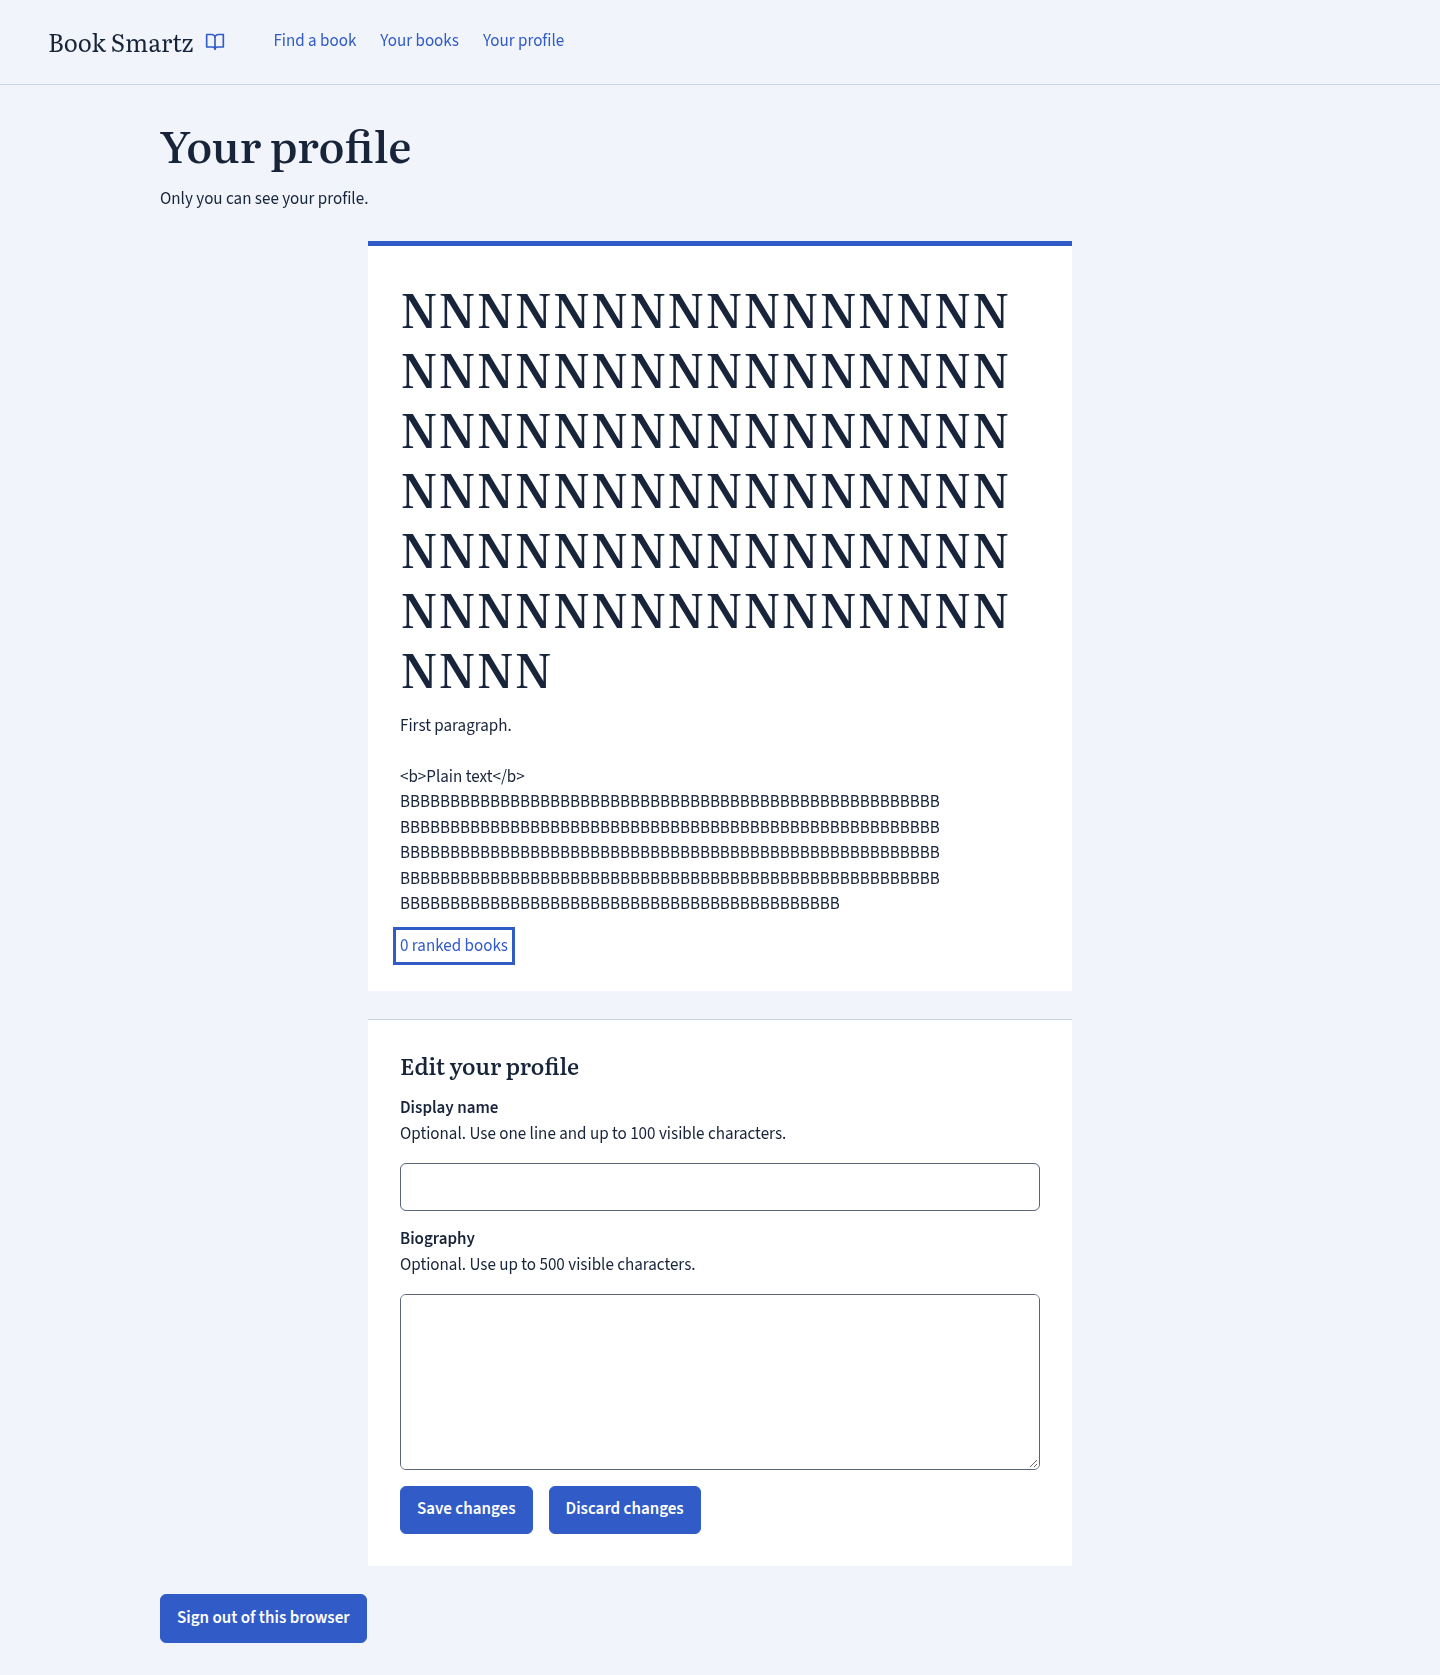
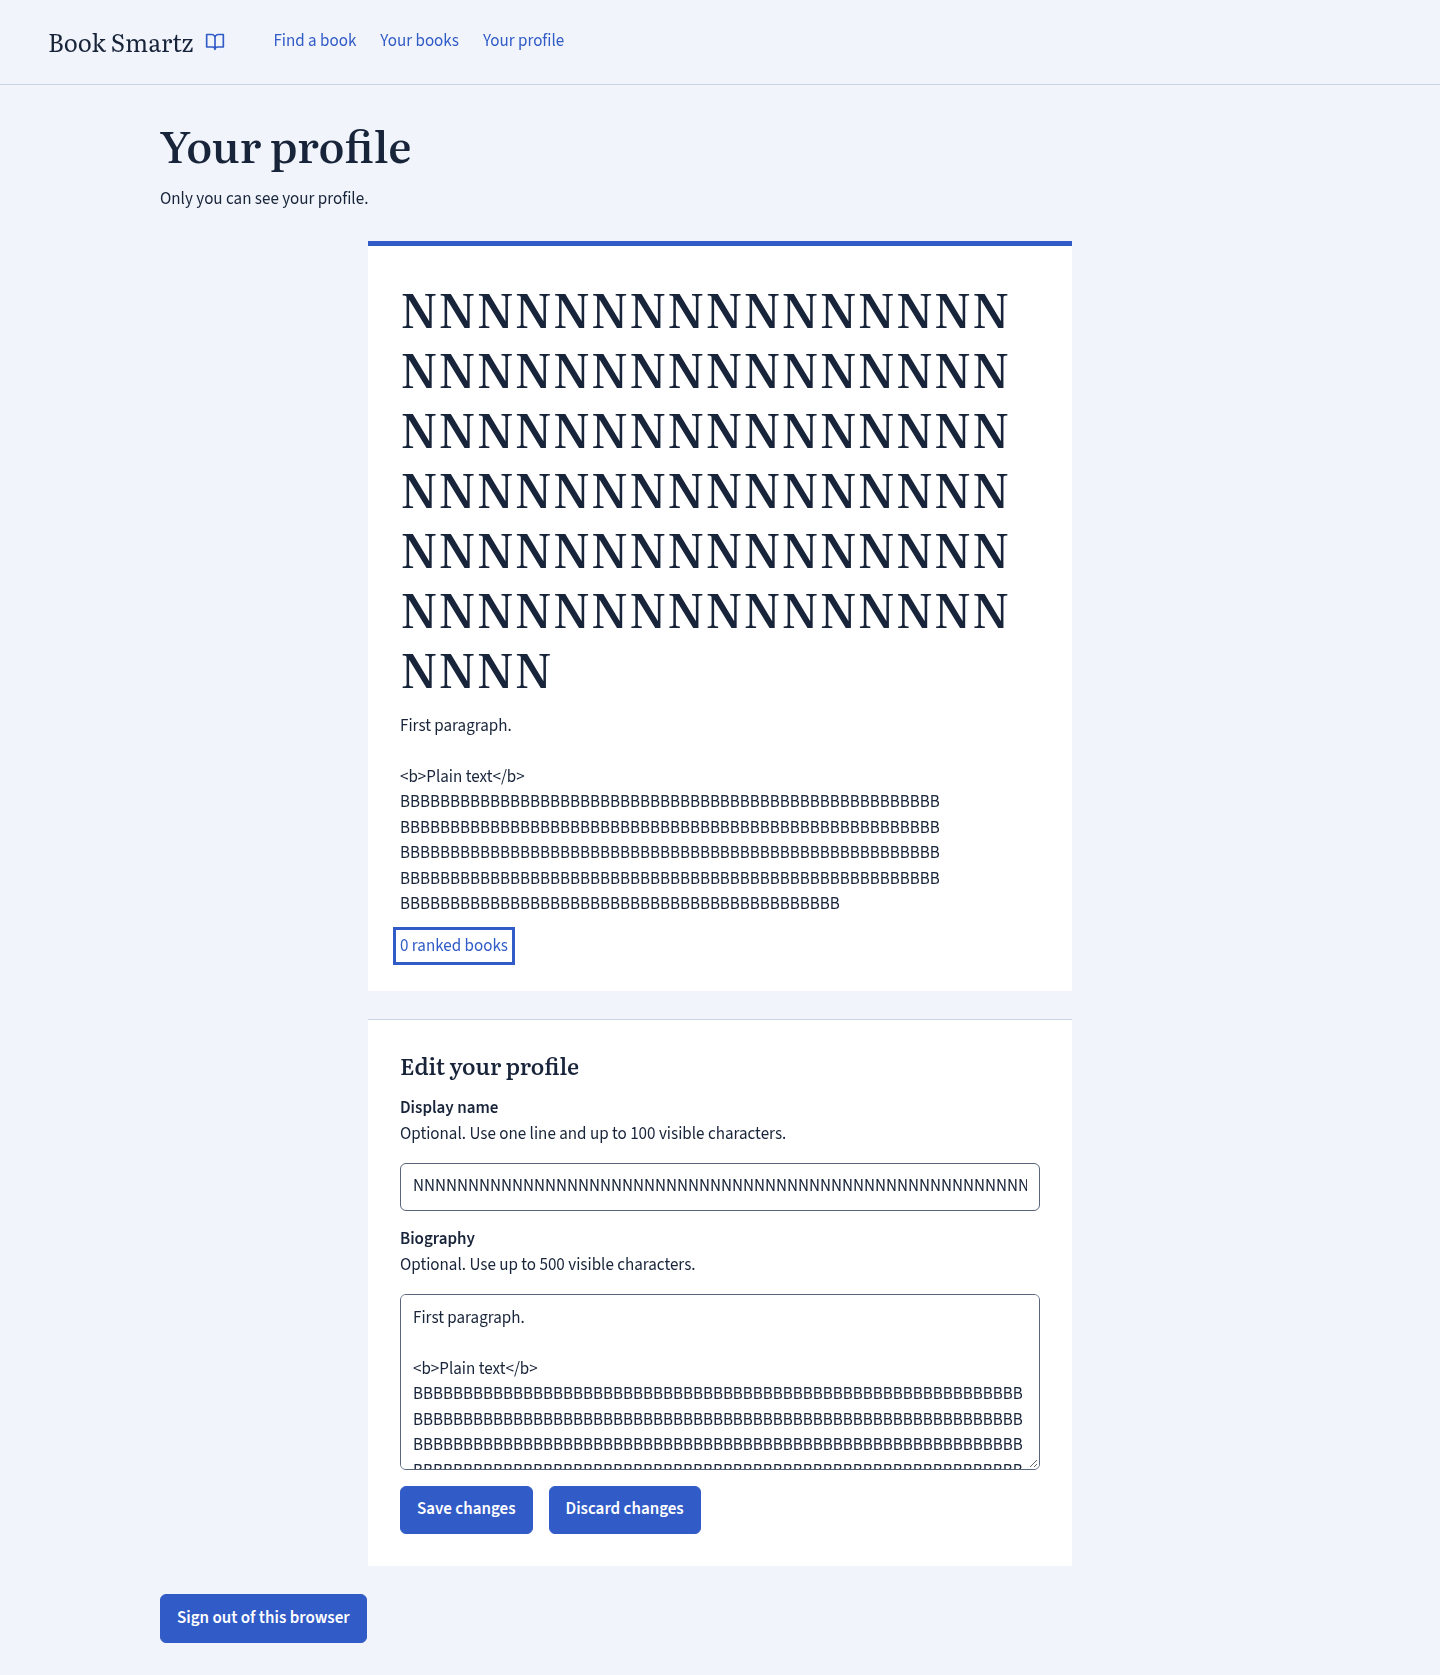
docs(book-smartz): refresh acceptance after migration helper repair

Changed region(s): [[0.2812, 0.7761, 0.7188, 0.8693], [0.3125, 0.683, 0.6875, 0.714]]

diff --git a/book_smartz/PROFILE-ACCEPTANCE.md b/book_smartz/PROFILE-ACCEPTANCE.md
@@ -3,7 +3,7 @@
 ## Tested implementation
 
 This record covers [#2925](https://github.com/LowkeyLab/bazel-repo/issues/2925) and the acceptance areas in [#2920](https://github.com/LowkeyLab/bazel-repo/issues/2920).
-The tested implementation commit is `3446db7c2254cb81c558aafbf76cf21008d05451`.
+The tested implementation commit is `aff5e5bd6d038f0b43099054046e291000117998`.
 Later evidence commits change only this report and its retained artifacts. They do not change app or test source.
 
 The delivered archive runs with real isolated PostgreSQL and controlled signed Google responses.
@@ -19,30 +19,39 @@ nix develop --command aspect test \
   //book_smartz/web:http_test //book_smartz/web:application_test \
   //book_smartz/web:package_test //book_smartz/web:browser_test \
   --nocache_test_results --noremote_accept_cached --flaky_test_attempts=1 \
-  --test_env=BOOK_SMARTZ_ACCEPTANCE_COMMIT=3446db7c2254cb81c558aafbf76cf21008d05451
+  --test_env=BOOK_SMARTZ_ACCEPTANCE_COMMIT=aff5e5bd6d038f0b43099054046e291000117998
 ```
 
-[BuildBuddy retained the results and undeclared outputs](https://app.buildbuddy.io/invocation/144e6389-2fd5-4813-8b85-74dd2b390a9c).
-HTTP passed in 85.9 seconds. Package passed in 55.4 seconds. Chromium passed in 148.7 seconds.
-The app suite passed 65 cases. One case failed before migration execution with `ExecutableFileBusy` and OS error 26.
-That case was `failed_draft_cleanup_preserves_the_session_for_logout_retry`.
-The fixture observed no writer, but its process observation was incomplete. This evidence does not establish the cause.
-The original failure remains in the retained results.
+[BuildBuddy retained the results and undeclared outputs](https://app.buildbuddy.io/invocation/ba0989ac-9187-4233-ba7c-5aa494f0111b).
+HTTP passed in 109.9 seconds. Package passed in 68.5 seconds. Chromium passed in 205.5 seconds.
+The app suite passed 63 cases. Three cases failed during fixture migration startup with `ExecutableFileBusy` and OS error 26.
+Their process observations found no writer. This evidence does not establish the cause.
 
-A fresh local repeat passed all 66 app cases in 115.8 seconds. It used:
+A fresh local repeat passed those three cases in 19.0 seconds. It used:
 
 ```bash
 nix develop --command aspect test //book_smartz/web:application_test \
+  --test_arg=action_test::add_facts_distinguish_acknowledged_save_from_duplicate_attempt \
+  --test_arg=action_test::broken_diagnostic_delivery_preserves_confirmed_outcomes_and_durable_history \
+  --test_arg=action_test::display_feedback_is_reader_bound_and_distinguishes_fresh_saves_from_replay \
+  --test_arg=--test-threads=1 \
   --strategy=TestRunner=local --remote_executor= --remote_cache= \
   --bes_backend= --bes_results_url= --nocache_test_results --flaky_test_attempts=1 \
-  --test_env=BOOK_SMARTZ_ACCEPTANCE_COMMIT=3446db7c2254cb81c558aafbf76cf21008d05451
+  --test_env=BOOK_SMARTZ_ACCEPTANCE_COMMIT=aff5e5bd6d038f0b43099054046e291000117998
 ```
 
-The retained task receipts include `application-first-failure.log`, `application-local-final.log`, and `application-local-final-test.log`.
-The local pass establishes execution of the previously blocked scenario. It does not explain the remote executable-busy failure.
+The local result records three passes, zero failures, and 63 filtered cases.
+Together, the remote run and local repeat establish passing execution of all 66 app cases at the tested commit.
+They do not establish one successful complete app run at that commit.
+The receipts retain `application-repair-first-failure.log`, `application-repair-local.log`, and `application-repair-local-test.log`.
 
-The explicit previous-binary probe passed at the same implementation commit.
+Earlier acceptance at `3446db7c2254cb81c558aafbf76cf21008d05451` also encountered a fixture migration startup failure.
+Its full local repeat passed all 66 app cases. The receipts retain that earlier failure and repeat separately.
+Neither local result explains the remote executable-busy failures.
+
+The explicit previous-binary probe passed at the tested implementation commit.
 It used the [documented local command](web/README.md#complete-profile-acceptance) with the actual archive at `implement-2925/previous-package.tar`.
+The command set `BOOK_SMARTZ_ACCEPTANCE_COMMIT` to `aff5e5bd6d038f0b43099054046e291000117998`.
 The pre-profile source commit is `9fe0dc24537e8b53c9c5c54f5f5c0473e2310ca8`.
 [Its separate package build passed](https://app.buildbuddy.io/invocation/4a84dd2b-aa0c-4514-8561-07cefb4adb50).
[1 lines of base64/hex data omitted]
@@ -79,7 +88,7 @@ These checks establish different failure boundaries.
 
 Chromium `156.0.8078.4` recorded 144 scene records at the three required widths.
 [The manifest](profile-acceptance/manifest.json) binds each retained browser artifact to its SHA-256 digest and tested commit.
-The complete output directory remains outside reusable checkouts under the task receipts at `implement-2925/acceptance-browser`.
+The complete output directory remains outside reusable checkouts under the task receipts at `implement-2925/acceptance-browser-repair`.
 BuildBuddy also retains these outputs with the preceding invocation.
 
 The following unmodified screenshots contain synthetic fixture values. Visual inspection found wrapped text, visible focus, and controls inside the page bounds.
@@ -104,7 +113,38 @@ After the digest-format correction, [package checks passed again](https://app.bu
 [The full repository build passed](https://app.buildbuddy.io/invocation/933ec083-7233-48dd-9e5b-8a65b89fd506).
 Lint completed with two existing `too_many_lines` warnings in `profile.rs`. The digest-format correction removed the new warning.
 Independent Standards and Spec reviews each found zero source issues at the implementation commit.
+After the coverage repair, [all 190 repository targets passed](https://app.buildbuddy.io/invocation/d215de51-25a7-4c73-ab75-a60fe1fe21b9).
+[The full repository build passed](https://app.buildbuddy.io/invocation/7598ef10-764e-49ca-a11d-4df2efe05bd7).
+Formatting completed. Lint completed with four acronym suggestions in this report and no errors.
+
 Source review does not establish runtime acceptance. Final PR checks and hosted review remain separate merge requirements.
+
+## Coverage correction
+
+At PR head `9c6973f427217c7ad2c9e69488d6fa2d574f70eb`, hosted tests and review passed.
+The [Codecov patch report](https://app.codecov.io/gh/LowkeyLab/bazel-repo/pull/2942) failed at 86.56 percent against a 91.41 percent target.
+Its native report identified ten missing lines in the migration helper used only by the manual probe.
+The ordinary upgrade test duplicated the same command.
+
+Commit `aff5e5bd6d038f0b43099054046e291000117998` shares that command through `migrate_package`.
+Both tests retain their diagnostic stage names. The executable, database URL, launch directory, and success assertion remain the same.
+
+[Focused native coverage passed](https://app.buildbuddy.io/invocation/469b9283-3d6f-44f6-b423-57601c1760a1) with this command:
+
+```bash
+nix develop --command bazel coverage //book_smartz/web:package_test \
+  --config=remote-linux --strategy=TestRunner=remote --noremote_local_fallback \
+  --nocache_test_results --noremote_accept_cached \
+  --test_arg=profile_upgrade_preserves_existing_ledgers_sessions_and_saved_ranking
+```
+
+[The measured record](profile-acceptance/migration-coverage.json) retains the source blob, report digest, and native line counts.
+Ten of eleven mapped helper lines recorded execution. Line 793 retains a zero-hit record.
+This focused result does not establish the new hosted patch percentage.
+
+The [first coverage run](https://app.buildbuddy.io/invocation/b268fbe8-1a64-4651-b8bc-12edfb8cf558) passed the upgrade case but failed two other fixture launches with `ExecutableFileBusy`.
+The collector discarded that failed suite. The focused result comes from a separate successful execution.
+These fixture failures remain unexplained. The task receipts retain their logs.
 
 ## Limits
 
@@ -113,4 +153,4 @@ These two acceptance areas remain outside #2925. No production configuration or 
 The explicit previous-binary probe needs a separately preserved release archive. Ordinary CI ignores that probe because it lacks this input.
 The [web test instructions](web/README.md#complete-profile-acceptance) explain its explicit command and failure behavior.
 Execution covered every required profile acceptance area. The remote executable-busy failure remains an unexplained execution limitation.
-The fresh local pass supplies the complete app acceptance result. Hosted CI must still pass for the final PR head.
+The targeted local repeat completes execution of the three blocked cases. Hosted CI must still pass for the final PR head.
